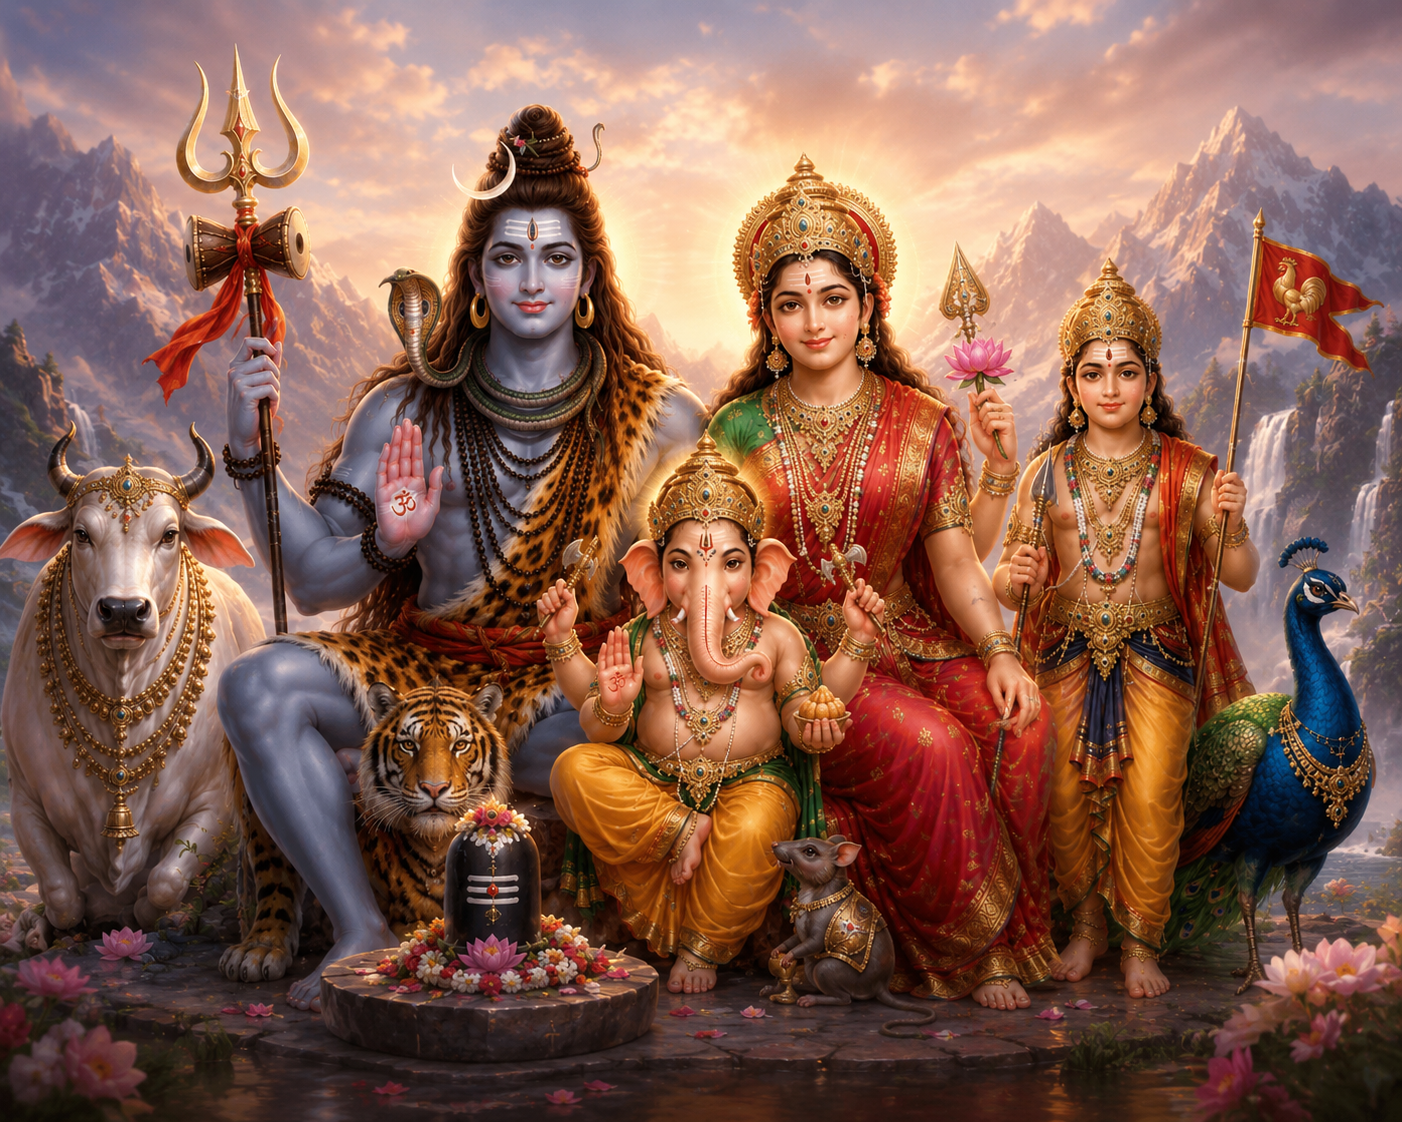
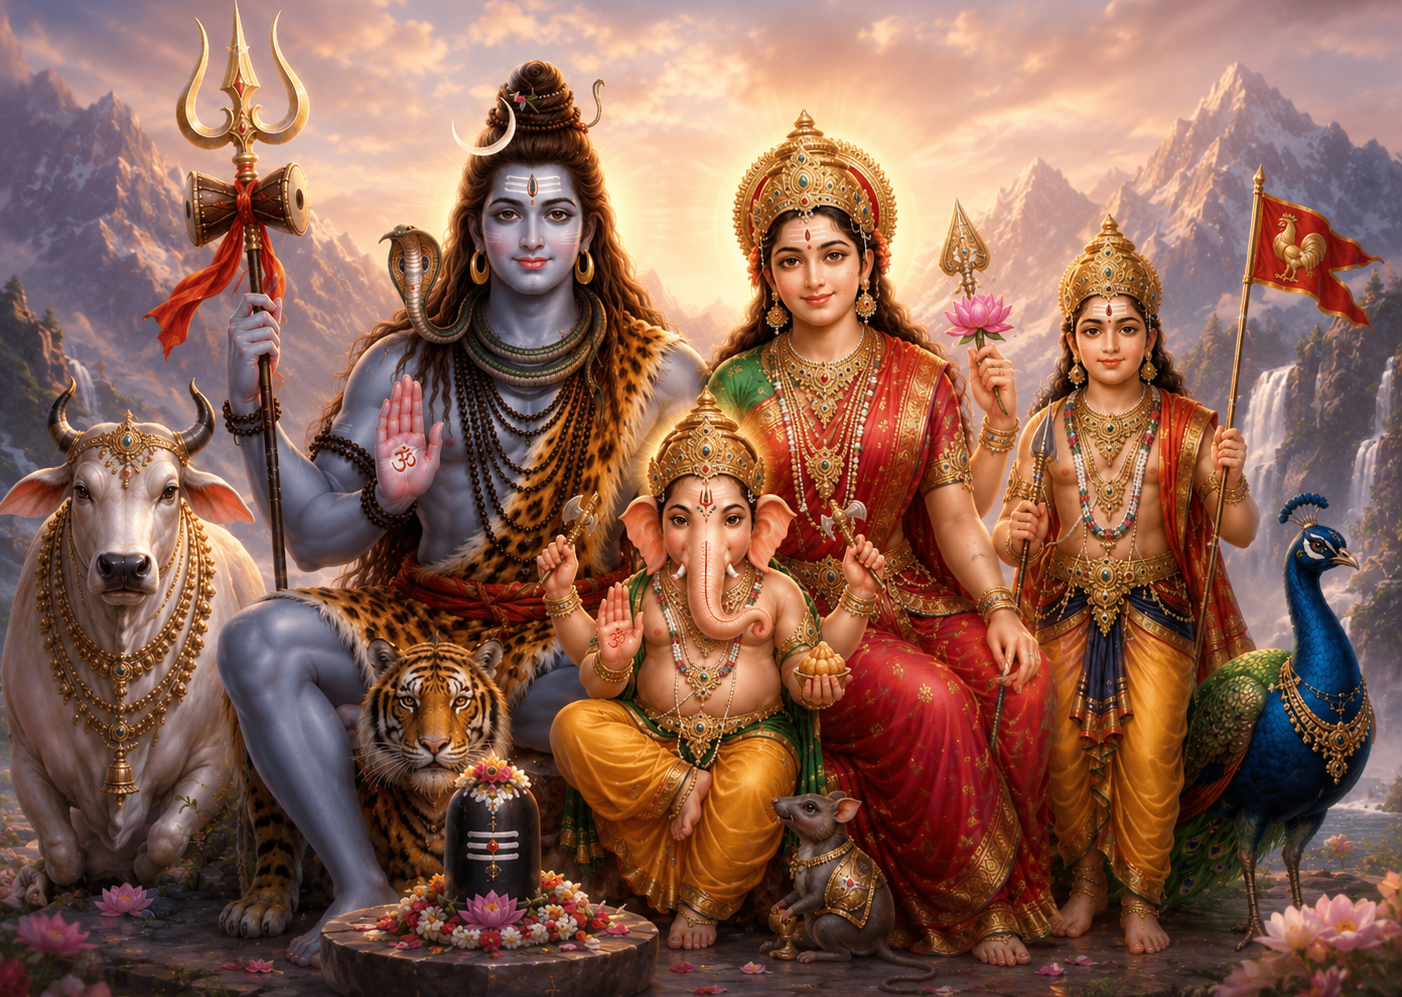
Upgrade Next.js to fix security vulnerability

diff --git a/app/components/HeroSection.jsx b/app/components/HeroSection.jsx
@@ -11,10 +11,10 @@ export function HeroSection() {
       
       {/* Background */}
       <img
-        src="/images/44.png"
-        alt="Shiv Mandir"
-        className="absolute inset-0 w-full h-full object-cover scale-110"
-      />
+  src="/images/44.png"
+  alt="Shiv Mandir"
+  className="absolute inset-0 w-full h-full object-cover object-center"
+/>
 
       {/* Overlay */}
       <div className="absolute inset-0 bg-black/60"></div>
